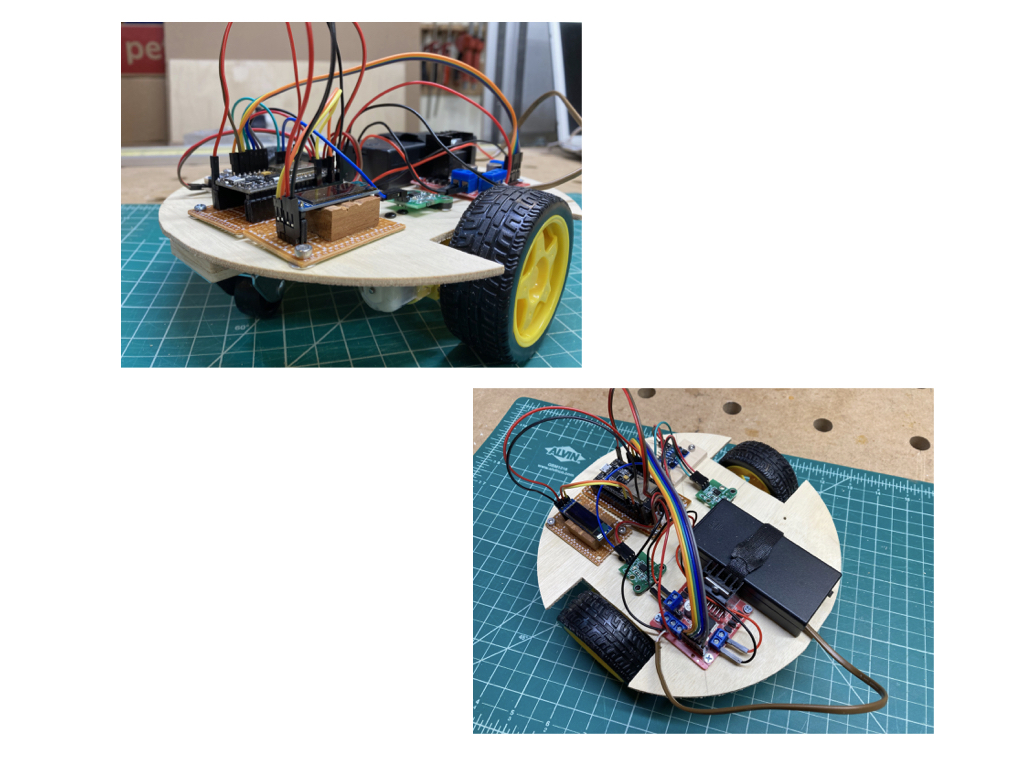
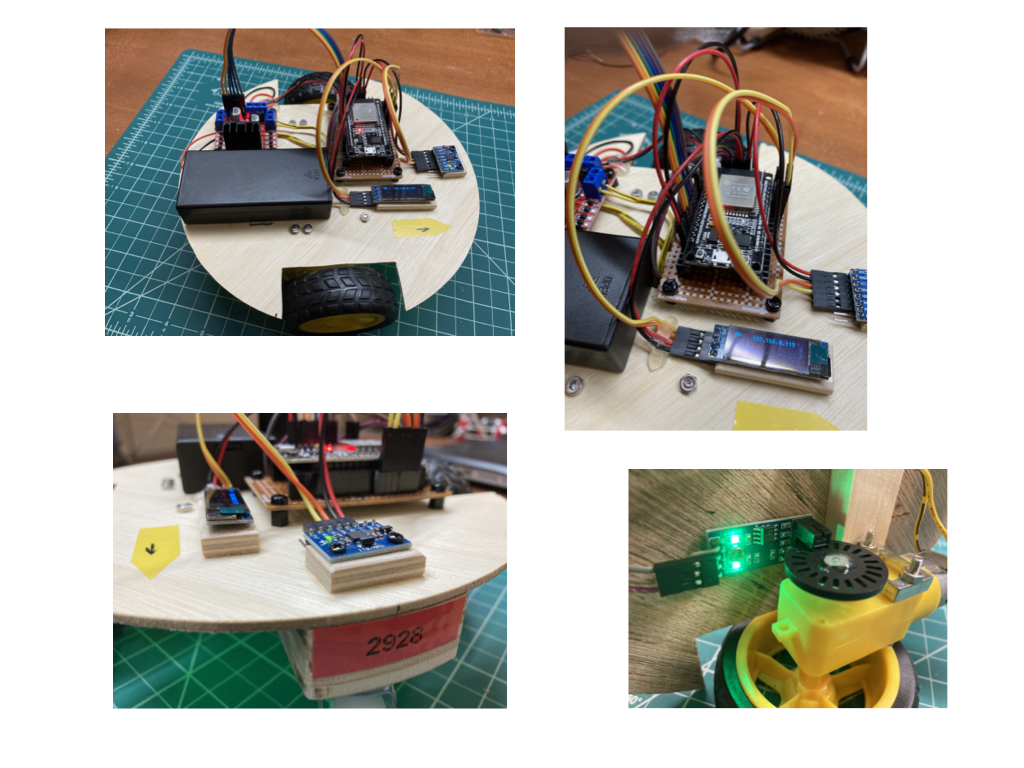
Updated robot images added speed charts

diff --git a/Tools/code2.md b/Tools/code2.md
@@ -11,7 +11,9 @@ For this lesson we'll only need the forward and backward controls.  We'll be abl
 
 The controls will still allow you to move forward or backward for 1, 2, or 3 seconds, but there are also slider controls to adjust the speed of each motor independently.  This opens up a lot more possibilities to control the robot. You can do a very wide or very tight turn depending on how you set the value of each wheel. You can still go straight forward and backwards (kind of) as long as you set the value of each wheel the same.
 
-One thing that you'll immediately notice is that you'll need to set the PWM value to at least 160. This is to overcome inertia of the motor and the weight of the robot. Once you get passed that value the speed starts to pick up quickly. If you set it to the maximum value and let it go for 3 seconds you're going to need a lot of runway. Please don't break my robot or run over any sleeping pets!
+One thing that you'll immediately notice is that you'll need to set the PWM value to at least 160 before the robot starts to move. This is to overcome inertia of the motor and the weight of the robot. Once you get passed that value the speed starts to pick up quickly. If you set it to the maximum value and let it go for 3 seconds you're going to need a lot of runway. Please don't run over any sleeping pets!
+
+![Speed PWM](../images/FRCRobot/FRCRobot.017.jpeg)
 
 <h3><span style="float:left">
 <a href="code1">Previous</a></span>

diff --git a/Tools/code3.md b/Tools/code3.md
@@ -47,7 +47,7 @@ Notice the word <i>periodic</i> in the timer setup.  This tells us that the time
 
 ![DCMotor](../images/FRCRobot/FRCRobot.008.jpeg)
 
-## References
+## Additional References
 FRC Documentation [Encoders - Software](https://docs.wpilib.org/en/latest/docs/software/sensors/encoders-software.html)
 
 A detailed explaination of interrupts for the Arduino can be found on [Nick Gammons](http://gammon.com.au/interrupts) site.

diff --git a/Tools/code4.md b/Tools/code4.md
@@ -21,11 +21,11 @@ The <i>DCMotor</i> model is very similar to that of lesson 3.  The difference is
 
 ![DCMotor](../images/FRCRobot/FRCRobot.015.jpeg)
 
-## Drivetrain Charaterization
+## Drivetrain Characterization
 
 Talk about static, velocity, acceleration...
 
-<!-- ![Robot Model](../images/FRCRobot/FRCRobot.001.jpeg) -->
+![Robot Model](../images/FRCRobot/FRCRobot.018.jpeg)
 
 
 <h3><span style="float:left">

diff --git a/Tools/build.md b/Tools/build.md
@@ -1,5 +1,5 @@
 # <a name="build"></a>Robot Construction
-Picture of the prototype...
+Images of the Training Robot.
 
 ![Robot photo](../images/FRCRobot/FRCRobot.013.jpeg)
 
